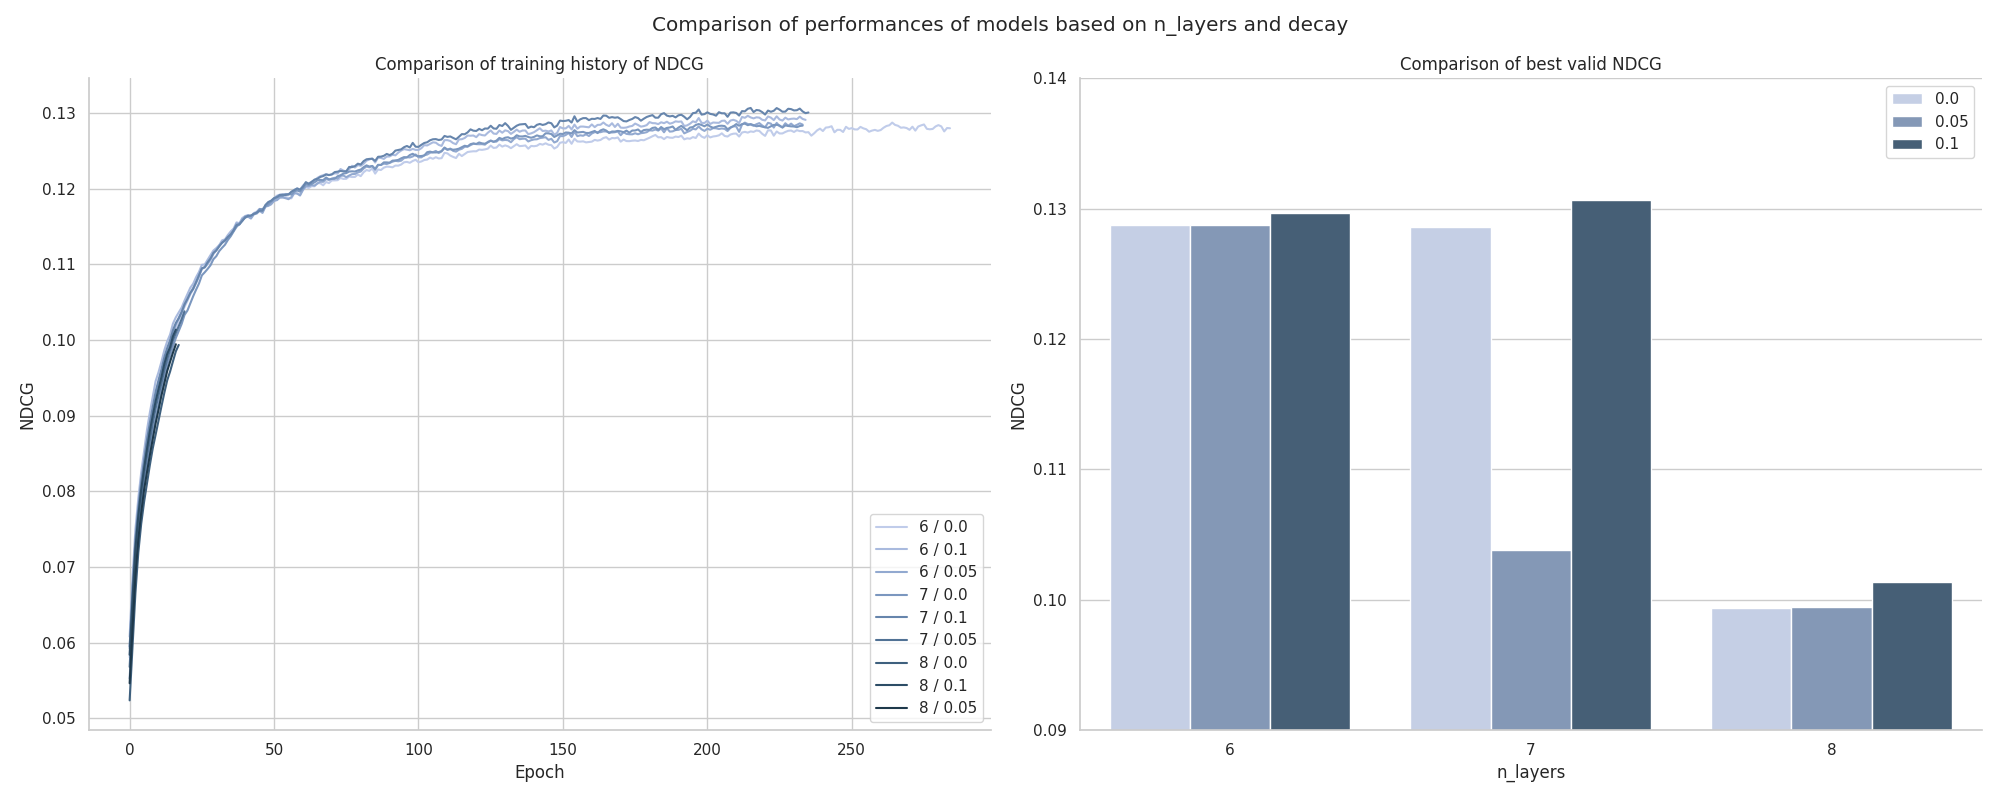
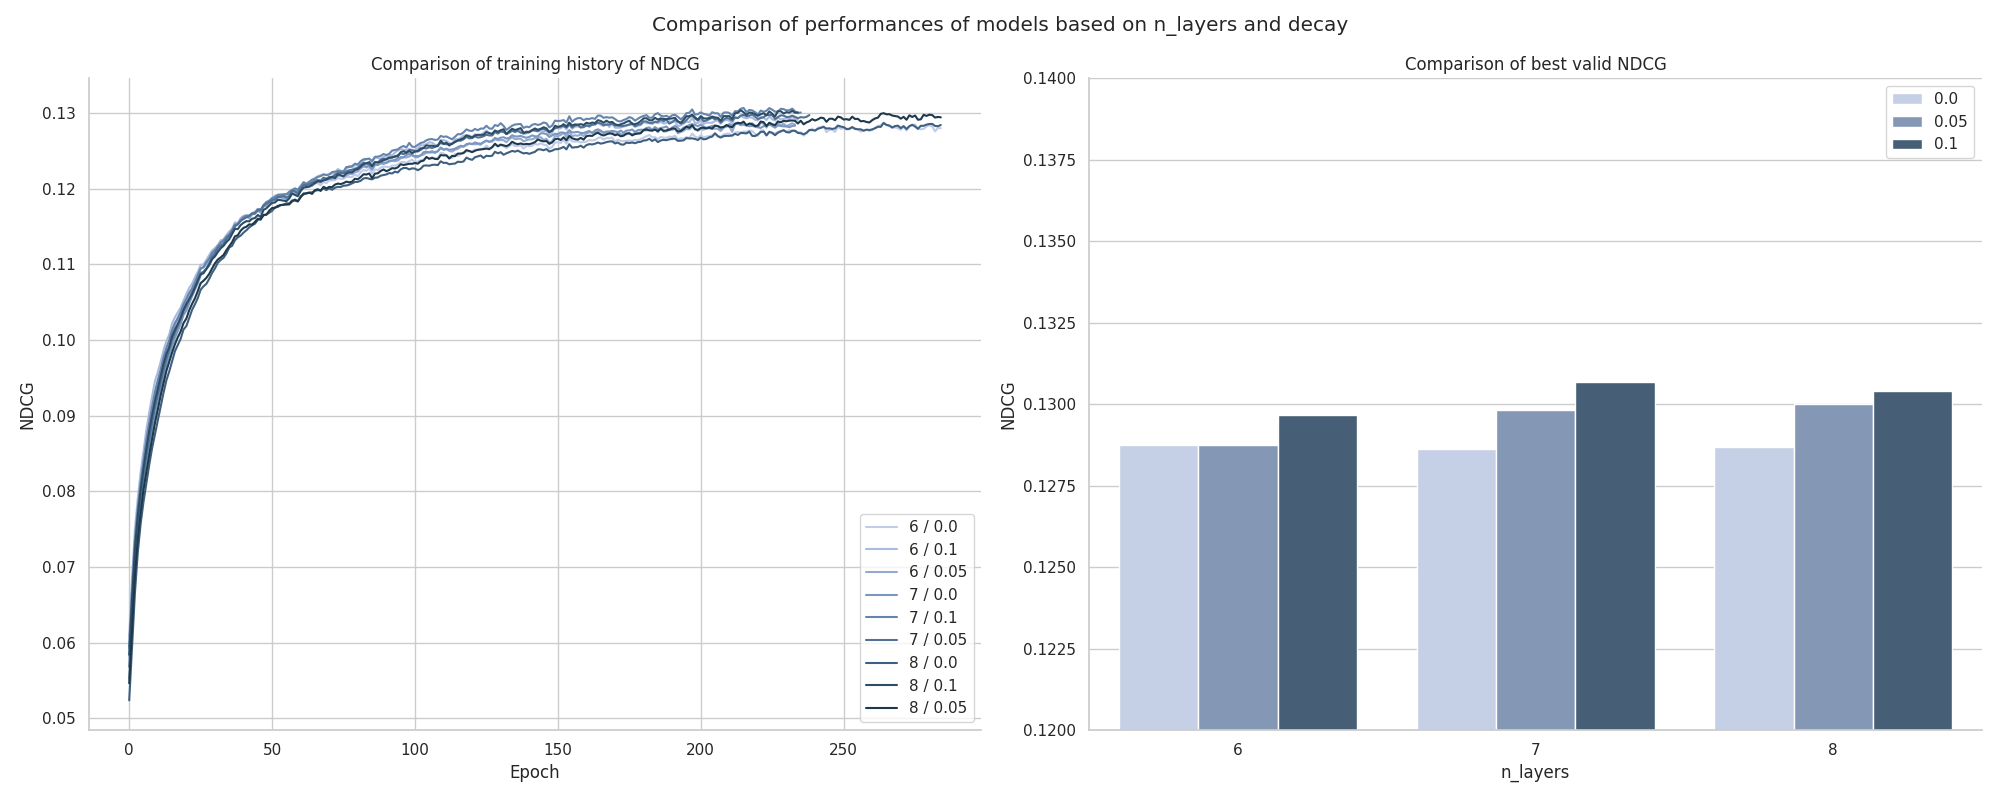
experiment with layer weight decay

diff --git a/training/evaluation.py b/training/evaluation.py
@@ -15,73 +15,105 @@ class Evaluator():
 
         self.rank = eval_cfg.rank
 
-    def calculate_scores(self, batch_users, user_embs, item_embs):
-        u_embs = user_embs[batch_users]
-        scores = torch.matmul(u_embs, item_embs.t())
-
-        scores = scores.cpu().numpy()
+    def compute_scores(self, user_embs, item_embs, users):
+        user_embs = user_embs[users]
+        scores = torch.matmul(user_embs, item_embs.t())
         return scores
 
-    def get_top_k_items(self, batch_users, scores):
-        for i, uid in enumerate(batch_users):
-            train_pos_items = list(self.train_user_pos.get(uid, []))
-            if len(train_pos_items) > 0:
-                scores[i, train_pos_items] = -np.inf
+    def mask_train_items(self, scores, users):
+        rows, cols = [], []
+        for i, uid in enumerate(users):
+            train_items = self.train_user_pos.get(uid, [])
+            if train_items:
+                rows.extend([i] * len(train_items))
+                cols.extend(train_items)
 
-        topk_indices = np.argpartition(scores, -self.rank, axis=1)[:, -self.rank:]
+        if rows:
+            scores[rows, cols] = -float("inf")
 
-        rows = np.arange(len(batch_users))[:, None]
-        topk_scores = scores[rows, topk_indices]
-        sorted_idx = np.argsort(-topk_scores, axis=1)
-        topk_items = topk_indices[rows, sorted_idx]
+        return scores
 
-        return topk_items
+    def get_top_k_items(self, scores):
+        _, topk_indices = torch.topk(scores, k=self.rank, dim=1)
+        return topk_indices
 
-    def calculate_recall(self, pred_items, target_items):
-        if len(target_items) == 0:
-            return 0.0
+    def construct_target_matrix(self, users, num_items, device):
+        batch_size = len(users)
 
-        num_hits = sum([1 for item in pred_items if item in target_items])
-        recall = num_hits / len(target_items)
-        return recall
+        target_len = torch.zeros(batch_size, device=device)
+        batch_target_matrix = torch.zeros((batch_size, num_items), device=device, dtype=torch.bool)
 
-    def calculate_ndcg(self, pred_items, target_items):
-        dcg, idcg = 0.0, 0.0
+        batch_rows, batch_cols = [], []
+        for i, uid in enumerate(users):
+            test_items = self.test_user_pos.get(uid, [])
+            if test_items:
+                target_len[i] = len(test_items)
+                batch_rows.extend([i] * len(test_items))
+                batch_cols.extend(test_items)
 
-        for i, item in enumerate(pred_items):
-            if item in target_items:
-                dcg += 1.0 / np.log2(i + 2)
+        if batch_rows:
+            batch_target_matrix[batch_rows, batch_cols] = True
 
-        num_targets = len(target_items)
-        k = len(pred_items)
-        ideal_len = min(num_targets, k)
+        return batch_target_matrix, target_len
 
-        for i in range(ideal_len):
-            idcg += 1.0 / np.log2(i + 2)
+    def compute_hits(self, target_matrix, topk_indices):
+        hits = torch.gather(target_matrix, 1, topk_indices).float()
+        return hits
 
-        if idcg > 0:
-            return dcg / idcg
-        else:
-            return 0
+    def calculate_recall(self, hits, target_len):
+        recall_batch = hits.sum(1) / (target_len + 1e-10)
+        return recall_batch.sum().item()
+
+    def calculate_ndcg(self, hits, target_len, idcg_denominator):
+        batch_size = hits.size(0)
+        device = hits.device
+
+        dcg_batch = (hits * idcg_denominator).sum(1)
+        k_expanded = torch.ones(batch_size, device=device) * self.rank
+        ideal_len = torch.min(target_len, k_expanded).long()
+
+        idcg_table = torch.cumsum(idcg_denominator, dim=0)
+        idcg_vals = torch.zeros(batch_size, device=device)
+        valid_mask = ideal_len > 0
+        if valid_mask.any():
+            idcg_vals[valid_mask] = idcg_table[ideal_len[valid_mask] - 1]
+
+        ndcg_batch = dcg_batch / (idcg_vals + 1e-10)
+        return ndcg_batch.sum().item()
 
     def evaluate(self, embeddings):
         user_embs, item_embs = embeddings
+        user_embs = user_embs.detach()
+        item_embs = item_embs.detach()
 
-        recall, ndcg, n_users = 0, 0, 0
-        for batch_users in tqdm.tqdm(self.user_loader, desc="Evaluating Model"):
-            batch_users = batch_users.to(user_embs.device)
+        num_items = item_embs.shape[0]
+        device = user_embs.device
 
-            scores = self.calculate_scores(batch_users, user_embs, item_embs)
+        recall_sum, ndcg_sum, n_users = 0.0, 0.0, 0
 
-            batch_users_np = batch_users.cpu().numpy()
-            topk_items = self.get_top_k_items(batch_users_np, scores)
+        k_tensor = torch.arange(self.rank, device=device).float()
+        idcg_denominator = 1.0 / torch.log2(k_tensor + 2.0)
 
-            for i, uid in enumerate(batch_users_np):
-                pred_items = topk_items[i]
-                target_items = self.test_user_pos[uid]
+        with torch.no_grad():
+            for batch_users in tqdm.tqdm(self.user_loader, desc="Evaluating Model"):
+                batch_users = batch_users.to(device)
+                batch_users_list = batch_users.cpu().tolist()
+                batch_size = batch_users.size(0)
 
-                recall += self.calculate_recall(pred_items, target_items)
-                ndcg += self.calculate_ndcg(pred_items, target_items)
-                n_users += 1
+                scores = self.compute_scores(user_embs, item_embs, batch_users)
+                scores = self.mask_train_items(scores, batch_users_list)
+                topk_indices = self.get_top_k_items(scores)
+                target_matrix, target_len = self.construct_target_matrix(batch_users_list, num_items, device)
+                hits = self.compute_hits(target_matrix, topk_indices)
 
-        return recall / n_users, ndcg / n_users
+                recall = self.calculate_recall(hits, target_len)
+                ndcg = self.calculate_ndcg(hits, target_len, idcg_denominator)
+
+                recall_sum += recall
+                ndcg_sum += ndcg
+                n_users += batch_size
+
+        recall = recall_sum / n_users
+        ndcg = ndcg_sum / n_users
+
+        return recall, ndcg

diff --git a/evaluation/compare_models.py b/evaluation/compare_models.py
@@ -19,7 +19,7 @@ def update_performance_csv(cfg):
         ndcg = results["valid"]["ndcg"]
 
         min_index = np.argmax(ndcg)
-        metrics.append((log_file.replace(".log", ""),
+        metrics.append((log_file.replace(".json", ""),
              recall[min_index], ndcg[min_index], min_index+1
         ))
 
